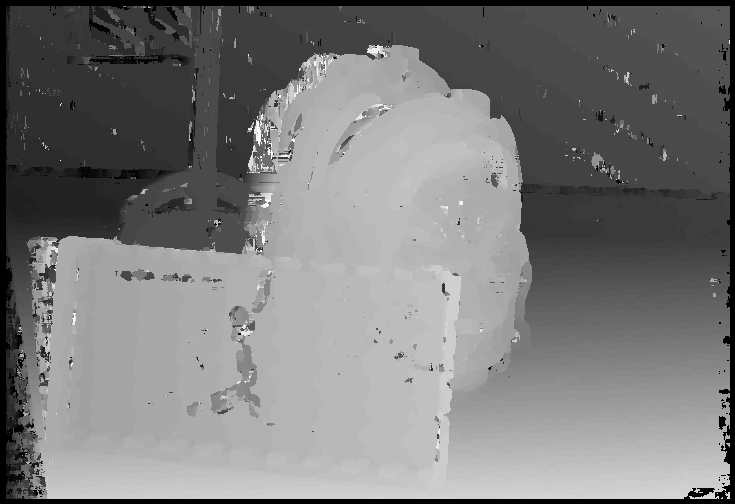
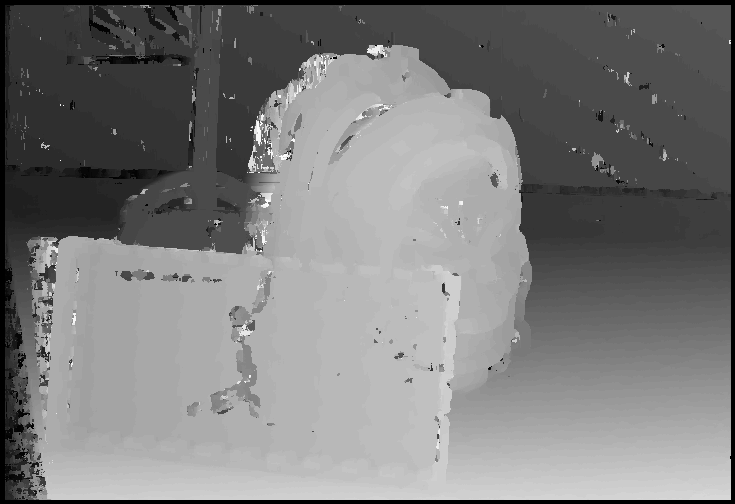
Phase 5 done

diff --git a/OpenCL_ZNCC_Optimized/zncc_opencl_optimized.cpp b/OpenCL_ZNCC_Optimized/zncc_opencl_optimized.cpp
@@ -82,6 +82,7 @@ cl::Buffer EnqueueZNCC(const cl::Buffer leftImage,
     cl::Buffer disparityMap(cl_info_obj.context, CL_MEM_READ_WRITE | CL_MEM_HOST_READ_ONLY, sizeof(unsigned int) * (width * height));
     cl::Kernel kernelZNCC(cl_info_obj.program, "calc_zncc");
 
+    // window is halved, so that pixel is in centre of window
     int halfWindowSize = (windowSize - 1) / 2;
 
     // set arguments
@@ -90,9 +91,10 @@ cl::Buffer EnqueueZNCC(const cl::Buffer leftImage,
     kernelZNCC.setArg(2, leftImage);
     kernelZNCC.setArg(3, rightImage);
     kernelZNCC.setArg(4, disparityMap);
+    kernelZNCC.setArg(5, maxDisparity);
 
     // queue the zncc kernel
-    cl_info_obj.queue.enqueueNDRangeKernel(kernelZNCC, cl::NullRange, cl::NDRange(width, height, maxDisparity), cl::NDRange(maxDisparity), 0, &cl_info_obj.profEvent);
+    cl_info_obj.queue.enqueueNDRangeKernel(kernelZNCC, cl::NullRange, cl::NDRange(width, height), cl::NullRange, 0, &cl_info_obj.profEvent);
     cl_info_obj.profEvent.wait();
 
     // print profiling
@@ -129,21 +131,21 @@ cl::Buffer EnqueueCrossCheck(const cl::Buffer dispMapLeft,
 }
 
 cl::Buffer EnqueueOcclusionFilling(const cl::Buffer crossCheckedImage, 
-    const int width, const int height, const int nCount, const int workGroupSize)
+    const int width, const int height, const int nCount)
 {
     // no buffer created here, as the input image's invalid pixels are filled in directly
     cl::Kernel kernelFilling(cl_info_obj.program, "occlusion_filling");
 
-    if (nCount * nCount > workGroupSize)
+    if (nCount * nCount > cl_info_obj.device.getInfo<CL_DEVICE_MAX_WORK_GROUP_SIZE>())
     {
         std::cout << "Warning: cross-check window size (nCount * nCount) bigger than allowed work group size." << std::endl;
         std::cout << "Possible undefined behavior.Choose smaller nCount." << std::endl;
+        //nCount = cl_info_obj.device.getInfo<CL_DEVICE_MAX_WORK_GROUP_SIZE>()
     }
 
     // set arguments
     kernelFilling.setArg(0, nCount);
-    kernelFilling.setArg(1, workGroupSize * sizeof(int), NULL);
-    kernelFilling.setArg(2, crossCheckedImage);
+    kernelFilling.setArg(1, crossCheckedImage);
 
     // queue the occlusion filling kernel
     cl_info_obj.queue.enqueueNDRangeKernel(kernelFilling, cl::NullRange, cl::NDRange(width, height), cl::NullRange, 0, &cl_info_obj.profEvent);
@@ -189,9 +191,9 @@ int main()
     // To account for this reduction in resolution, we need to adjust the maximum disparity value by the same factor that we used to downsample the image
 
     int ndisp = 260;
-    unsigned int resizeFactor = 4;
+    int resizeFactor = 4;
     int winSize = 11;
-    int neighbours = 32;
+    int neighbours = 8;
     int crossDiff = 32;
 
     // setup inputs and outputs
@@ -281,7 +283,10 @@ int main()
         cl::Context context(devices);
         cl::Program program(context, sources);
 
-        program.build("-cl-std=CL2.0"); //#TODO: note down using 2.0 for atomic
+        int neighbour_size = neighbours * neighbours < devWorkGroupSize ? neighbours * neighbours : devWorkGroupSize;
+
+        std::string str = "-cl-std=CL1.2 -D NEIGHBOUR_SIZE=" + std::to_string(neighbour_size);
+        program.build(str.c_str());
 
         // create command queue with profiling enabled
         cl_command_queue_properties properties[]{ CL_QUEUE_PROPERTIES, CL_QUEUE_PROFILING_ENABLE, 0 };
@@ -327,7 +332,7 @@ int main()
 
         // enqueue occlusion filling
         std::cout << "Applying occlusion filling..." << std::endl;
-        auto outputOcclusionFilling = EnqueueOcclusionFilling(outputCrossCheck, width, height, neighbours, devWorkGroupSize);
+        auto outputOcclusionFilling = EnqueueOcclusionFilling(outputCrossCheck, width, height, neighbours);
 
         //// enqueue normalization
         std::cout << "Applying image normalization..." << std::endl;

diff --git a/README.md b/README.md
@@ -277,33 +277,61 @@ Below, an image that prints out these execution times with information about the
 Implementing the rest of the ZNCC pipeline took 5 hours.
 The phase took in total 13:15 hours
 
-## Phase 5 ()
+## Phase 5 (17h)
 Phase 5 was all about the optimization of the implementation created in the previous phase.
 The code was copied into a new project called **OpenCL_ZNCC_Optimized** and optimized by doing the following steps.
 
 The first step was to change the memory access of the only input buffer from ```CL_MEM_COPY_HOST_PTR``` to ```CL_MEM_USE_HOST_PTR```.
-THe logic behind this was that copying memory, rather than directly using already allocated memory would be slower.
+The logic behind this was that copying memory, rather than directly using already allocated memory would be slower.
 After this change a small speed-up of around 15 000 microseconds was observed.
 At this point it was observed that each time the code was run a different speed could be seen.
 Sometimes it was slower, while others it was faster than the original values written down in the previous phase.
 Nevertheless, the speed up from changing the memory access can be positively identified, because the program was run with the original copy method multiple times and even though the speed differed, it was never as fast as in some iterations, where the "use" memory access mode was utilized.
 For the rest of this phase it can be assumed that if an optimization is mentioned, it has been tested multiple times to ensure that it actually has some kind of effect.
 
-Next, the ```calc_zncc``` kernel was updated with openCL math functions. 
+Next, the ```calc_zncc``` kernel was updated with OpenCL math functions. 
 The denominators for the zncc value were initially calculated with the math functions ```pow``` and ```sqrt```.
 However, as it is known that the power will be an integer, the ```pown``` function could be used to optimize the implementation.
 The ```native_powr``` function was attempted, so as to use any native GPU implementations, but this led to the final image not being output correctly.
 However, the ```native_sqrt``` function did work and was used in place of the normal ```sqrt``` function.
 Finally, ```native_divide``` was used to calculate the means and zncc value.
 All of this added an additional speed up of the implementation of around 80 000 microseconds.
-The ZNCC kernel itself was 5 times faster than before.
+The ZNCC kernel itself was 5 times faster than before. (~5500 microseconds -> ~1500 microseconds)
 
 Any variables that would only be read in the kernels were made ```constant```.
 The ```window_size``` argument in the ZNCC kernel was changed to ```half_window_size``` so that the calculation of the half window size is done only once, outside of the kernel instead of each work item iteration.
 These changes did not bring and noticeable speed-up, but were kept as they seemed like better practice.
 
+Trying to make the ZNCC kernel 3D instead of 2D, by using maxDisparity as the third dimension and creating a work group with the size of maxDisparity was attempted next.
+The idea behind this was that the loop, which calculates the zncc value based on the disparity value could be removed and instead the zncc values could be calculated in parallel.
+A memory block would synchronize the work items and then the zncc values would be compared.
+However, while attempting this some issues were encountered and after discussing with the teacher, this idea was scrapped as the improvement in speed that it would bring was not very apparent and was not worth pursuing.
 
+Loop unrolling with ```#pragma unroll``` was attempted in the kernels, but no optimization was found.
 
-5h
-20:00 
-#TODO: 3D ZNCC Kernel
+The work group size specified in ```enqueueNDRangeKernel``` was also investigated.
+As the kernels were 2D, the work group size had to be specified with 2 dimensions as well. 
+This meant that the common greatest divisor between the width and the height had to be found.
+As the resolution of the images after resizing is 735 x 504, that number would be 21.
+The size of the work group size would be specified as ```cl::NDRange(21, 21)```.
+However, doing this did not bring any optimization, as it can be assumed that OpenCL is smart enough to already select an optimal work group size by itself.
+Interestingly enough, it seemed that OpenCL automatically used 245 as the work group size, which is the greatest divisor of the width only.
+
+A mistake made in the previous phase was also caught in the occlusion filling kernel. 
+Originally, the neighbours array was created as local memory.
+However, this would mean that each work item, would have access to that same memory at the same time, leading to possible racing conditions.
+To amend this, the max work group size was passed as an argument when building the program, effectively acting as a #define, which could then be used to create a variable-length private memory neighbour array for each work item.
+As a negative side-effect, the execution time of this kernel was slowed down quite a lot - from 20 microseconds to 1000 microseconds.
+Nonetheless, this was the correct way to implement this kernel.
+The neighbour count used was 32, which would essentially create a window of size 1024.
+It was discovered, that it was not necessary to use such a big neighbour count and it was downscaled to 8 or a window size of 64.
+This improved the [image](img/cl_depthmap_optimized.png) quality and dropped the execution time to 5 microseconds.
+
+Finally, a bit of optimization (~100 microseconds) was gained by making the left and right mean values in the zncc kernel a ```float2```. 
+This removed the need to use a second ```native_divide``` function, effectively making use of SIMD operations. 
+
+The optimized kernel can be found in [kernels/zncc_kernels_optimized.cl](kernels/zncc_kernels_optimized.cl), while the changed host program can be found in [OpenCL_ZNCC_Optimized/zncc_opencl_optimized.cpp](OpenCL_ZNCC_Optimized/zncc_opencl_optimized.cpp).
+Optimization took around 17 hours in total.
+
+## Phase 6 ()
+#TODO: memory tiling? minimizing memory access, using vector data types and using local memory
